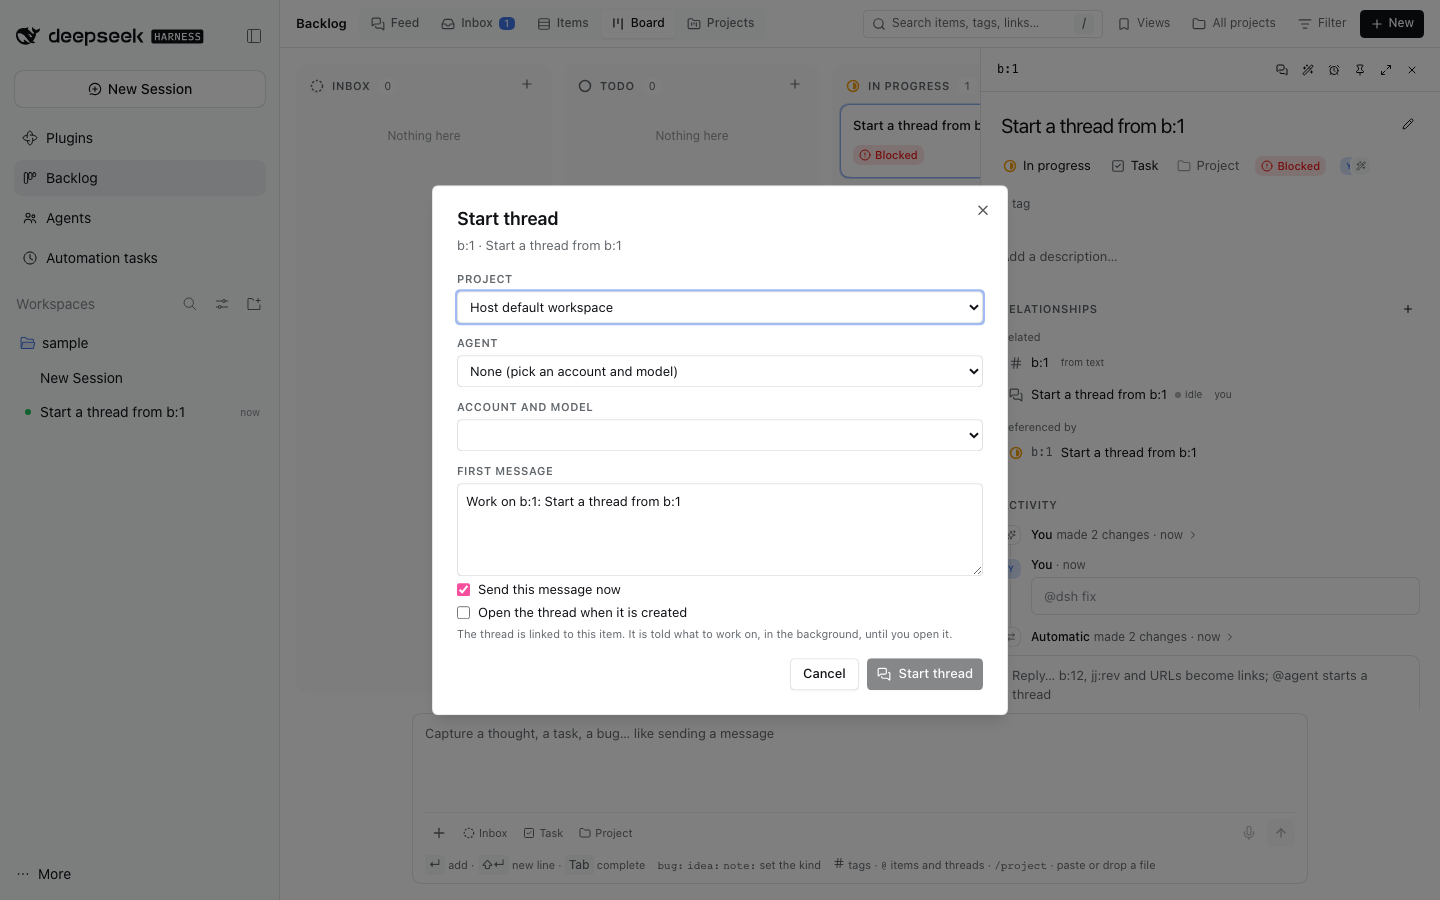
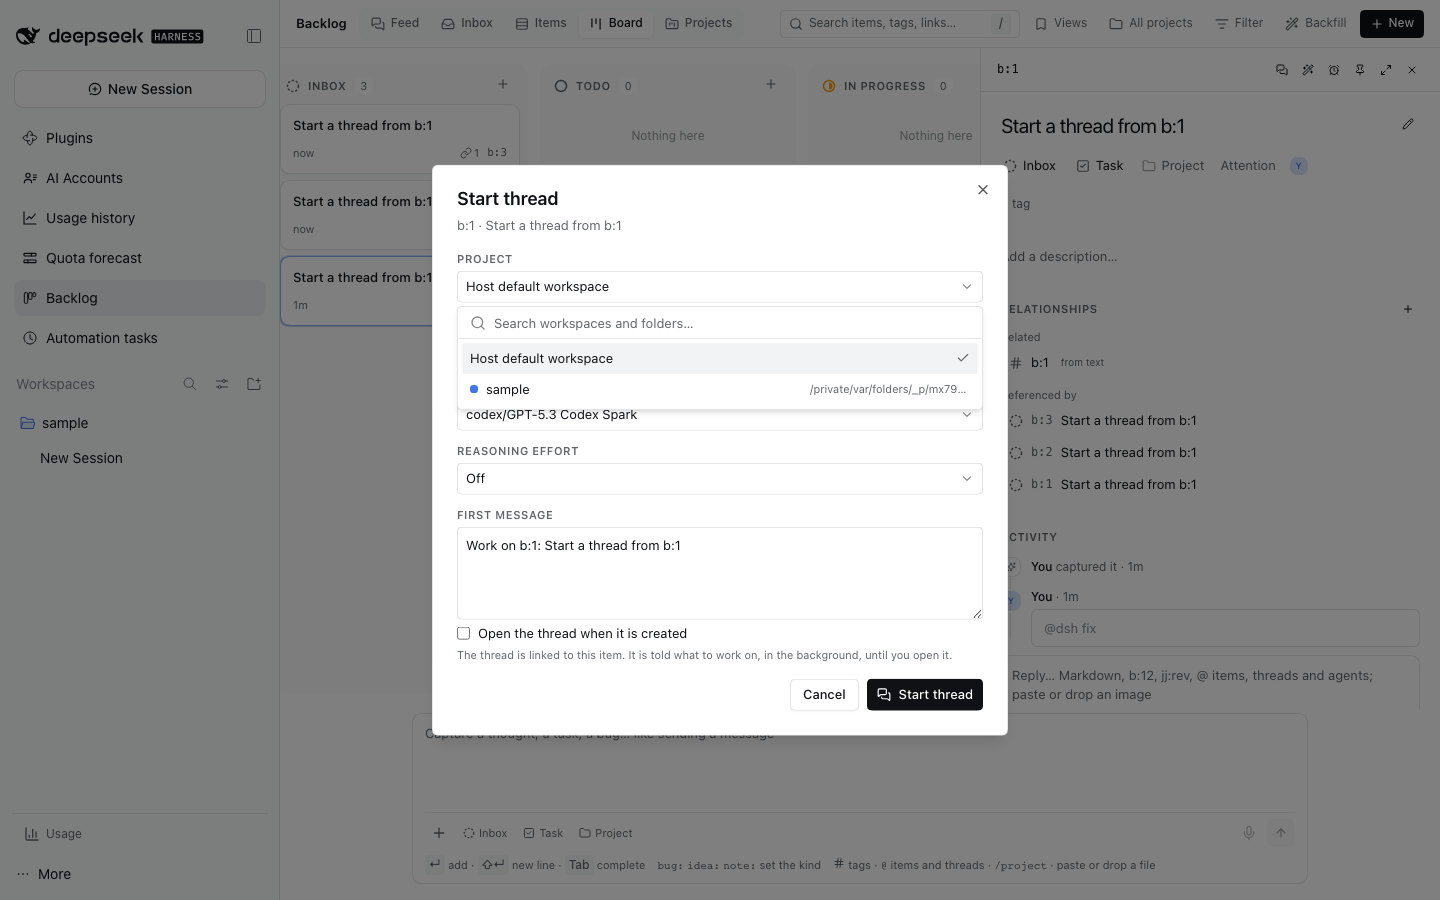
fix(backlog): restore project picker identity and send behavior
Show project color dots and home-relative paths in the thread picker. Remove the redundant send toggle and draft-only setting/API path so non-empty opening messages always start the thread.

diff --git a/plugins/@dshfiles/backlog/src/start-thread-dialog.tsx b/plugins/@dshfiles/backlog/src/start-thread-dialog.tsx
@@ -2,6 +2,7 @@ import { Button } from '@dshfiles/plugin-ui/components/ui/button'
 import { Combobox, type ComboboxOption } from '@dshfiles/plugin-ui/components/ui/combobox'
 import { Dialog, DialogContent, DialogDescription, DialogFooter, DialogHeader, DialogTitle } from '@dshfiles/plugin-ui/components/ui/dialog'
 import { MessagesSquareIcon } from '@dshfiles/plugin-ui/icons'
+import { cn } from '@dshfiles/plugin-ui/lib/utils'
 import { errorMessage, useQuery } from '@dshfiles/plugin-ui/query'
 import { useState } from 'react'
 
@@ -28,7 +29,6 @@ export const StartThreadDialog = (props: {
   readonly loadCatalog: () => Promise<StartThreadCatalog>
   /** Every enabled agent, so the thread can start as one with its preset, route and instructions. */
   readonly listAgents: () => Promise<readonly StartThreadAgentChoice[]>
-  readonly sendByDefault: boolean
   readonly openByDefault: boolean
   readonly start: (request: StartThreadRequest) => void
   readonly close: () => void
@@ -42,7 +42,6 @@ export const StartThreadDialog = (props: {
   const [mode, setMode] = useState<'together' | 'per-item'>('together')
   const [message, setMessage] = useState(() => StartThreadForm.message(props.items))
   const [instructions, setInstructions] = useState('')
-  const [send, setSend] = useState(props.sendByDefault)
   const [open, setOpen] = useState(props.openByDefault)
   const catalogQuery = useQuery({ queryKey: ['dshfiles-backlog', 'start-thread', 'catalog'], queryFn: props.loadCatalog, staleTime: 30_000 })
   const agentsQuery = useQuery({ queryKey: ['dshfiles-backlog', 'start-thread', 'agents'], queryFn: props.listAgents, staleTime: 30_000 })
@@ -53,9 +52,11 @@ export const StartThreadDialog = (props: {
   const selected = rows.find(row => row.key === selectedKey)
   const effortValue = effort ?? (selected === undefined ? undefined : StartThreadForm.defaultEffort(selected))
   const target = targets.find(option => option.value === targetValue)?.target ?? { kind: 'default' }
+  const projectIndex = (projectId: string): number => props.projects.findIndex(project => project.id === projectId)
   const projectOptions: readonly ComboboxOption[] = targets.map(option => {
     const optionTarget = option.target
-    const description = optionTarget.kind === 'project' ? props.projects.find(project => project.id === optionTarget.projectId)?.path : undefined
+    const project = optionTarget.kind === 'project' ? props.projects.find(candidate => candidate.id === optionTarget.projectId) : undefined
+    const description = project === undefined ? undefined : StartThreadForm.projectPath(project.path)
     return description === undefined ? { value: option.value, label: option.label } : { value: option.value, label: option.label, description }
   })
   const agentOptions: readonly ComboboxOption[] = [
@@ -96,7 +97,7 @@ export const StartThreadDialog = (props: {
     if (picked === null) return
     props.close()
     const startTarget = mode === 'per-item' && !targetWasChosen ? { kind: 'default' as const } : target
-    props.start({ items: props.items, mode, target: startTarget, ...picked, message: mode === 'per-item' ? instructions : picked.message, send, open })
+    props.start({ items: props.items, mode, target: startTarget, ...picked, message: mode === 'per-item' ? instructions : picked.message, open })
   }
 
   return (
@@ -135,6 +136,20 @@ export const StartThreadDialog = (props: {
                 setTargetValue(value)
               }}
               options={projectOptions}
+              renderOption={option => {
+                const project = props.projects.find(candidate => `project:${candidate.id}` === option.value)
+                return (
+                  <>
+                    {project === undefined ? null : (
+                      <span aria-hidden className={cn('dshx:size-2 dshx:shrink-0 dshx:rounded-full', StartThreadForm.projectTone(projectIndex(project.id)))} />
+                    )}
+                    <span className="dshx:min-w-0 dshx:flex-1 dshx:truncate">{option.label}</span>
+                    {option.description === undefined ? null : (
+                      <span className="dshx:max-w-40 dshx:truncate dshx:text-[11px] dshx:text-muted-foreground">{option.description}</span>
+                    )}
+                  </>
+                )
+              }}
               searchAbove={0}
               searchPlaceholder="Search workspaces and folders…"
               value={targetValue}
@@ -209,15 +224,6 @@ export const StartThreadDialog = (props: {
               className="dshx:w-full dshx:resize-y dshx:rounded-md dshx:border dshx:border-input dshx:bg-background dshx:p-2 dshx:text-[13px] dshx:text-foreground dshx:outline-none dshx:focus-visible:ring-2 dshx:focus-visible:ring-ring/50"
             />
             <label className="dshx:flex dshx:items-center dshx:gap-2 dshx:text-[13px]">
-              <input
-                type="checkbox"
-                checked={send}
-                onChange={event => setSend(event.currentTarget.checked)}
-                disabled={mode === 'together' && message.trim() === ''}
-              />
-              Send this message now
-            </label>
-            <label className="dshx:flex dshx:items-center dshx:gap-2 dshx:text-[13px]">
               <input type="checkbox" aria-label="Open the thread when it is created" checked={open} onChange={event => setOpen(event.currentTarget.checked)} />
               Open the thread when it is created
             </label>
@@ -228,14 +234,10 @@ export const StartThreadDialog = (props: {
                   ? `The thread is linked to all ${String(props.items.length)} items. `
                   : 'The thread is linked to this item. '}
               {mode === 'per-item' ? (
-                send ? (
-                  'Each thread starts with a message.'
-                ) : (
-                  'Each thread keeps its message as an editable draft.'
-                )
+                'Each thread starts with a message.'
               ) : (
                 <>
-                  {message.trim() === '' ? 'It is created empty' : send ? 'It is told what to work on' : 'It opens with the message as an editable draft'}
+                  {message.trim() === '' ? 'It is created empty' : 'It is told what to work on'}
                   {open ? ' and opens when it is ready.' : ', in the background, until you open it.'}
                 </>
               )}

diff --git a/plugins/@dshfiles/backlog/src/client-entry.tsx b/plugins/@dshfiles/backlog/src/client-entry.tsx
@@ -1,4 +1,3 @@
-import type {} from '@deepseek-ai/dsh-api-session-controller/client'
 import type {} from '@deepseek-ai/dsh-api-workspace-controller/client'
 import type { SessionId } from '@deepseek-ai/dsh-session/types'
 import type {} from '@deepseek-ai/dsh-client-ui-layout/client'
@@ -26,16 +25,9 @@ import './client.css'
 
 const PANEL_ID = 'dshfiles-backlog-panel'
 
-declare module '@deepseek-ai/dsh-api-session-controller/client' {
-  interface SessionReferenceSourceMap {
-    /** A thread the backlog just started for one item, retained while its first message is admitted. */
-    backlogStartThread: unknown
-  }
-}
-
 export default defineClient({
   name: '@dshfiles/backlog',
-  inject: ['slots', 'layout', 'sessions', 'workspaces', 'remote', 'remote.session', 'uiWorkspace', 'conversation', 'inputTriggers'],
+  inject: ['slots', 'layout', 'sessions', 'workspaces', 'remote', 'remote.session', 'uiWorkspace', 'inputTriggers'],
   setup(ctx, decorate) {
     ctx.effect(() => installBacklogReferenceLinks(), 'backlog reference links')
     const api = createApiClient(ctx, backlogApi)
@@ -46,7 +38,7 @@ export default defineClient({
         return { ok: false, reason }
       }
       if (report) BacklogNotices.show({ text: StartThreadForm.starting(request.items), kind: 'progress', sessionId: null })
-      const start: Parameters<typeof api.safe.startThread>[0] = { ids: request.items.map(item => item.id), send: request.send }
+      const start: Parameters<typeof api.safe.startThread>[0] = { ids: request.items.map(item => item.id) }
       if (request.target.kind === 'project') start.workspaceId = request.target.projectId
       else if (request.target.kind === 'cwd') start.cwd = request.target.path
       if (request.agent !== undefined) start.agent = request.agent.handle
@@ -58,17 +50,6 @@ export default defineClient({
       if (!started.ok) return failed(started.error.message)
       // SAFETY: SessionId is a type-only brand over the Host-minted unique id returned for this request.
       const sessionId = started.value.sessionId as SessionId
-      if (!request.send && request.message !== '') {
-        const reference = ctx.sessions.retain(sessionId, { source: 'backlogStartThread' })
-        try {
-          await reference.ready
-          ctx.conversation.input.requestDraftInitialization(reference.binding, { prompt: request.message, clearPreviousDraft: true })
-        } catch (cause) {
-          console.warn(`backlog: thread ${sessionId} started without its draft: ${String(cause)}`)
-        } finally {
-          reference.release()
-        }
-      }
       if (request.open) {
         try {
           ctx.uiWorkspace.openSession(sessionId)

diff --git a/plugins/@dshfiles/backlog/src/start-thread.test.ts b/plugins/@dshfiles/backlog/src/start-thread.test.ts
@@ -1,32 +1,14 @@
 import { describe, expect, it } from 'vitest'
 
-import type { BacklogSummaryView } from './api.js'
-import { BacklogViews } from './api.js'
-import { StartThreadForm } from './start-thread.js'
+import { StartThreadForm, type StartThreadItem } from './start-thread.js'
 
-const item = (fields: Partial<BacklogSummaryView> = {}): BacklogSummaryView =>
-  BacklogViews.summary({
-    id: 103,
-    title: 'right click backlog item -> start a thread',
-    kind: 'task',
-    status: 'doing',
-    project: null,
-    tags: [],
-    links: [],
-    actors: [{ id: 'user', role: 'owner' }],
-    pinned: false,
-    freshness: 'fresh',
-    createdAt: 1,
-    lastActivityAt: 2,
-    preview: '',
-    proposal: null,
-    attention: 'none',
-    acknowledgedAt: null,
-    snoozedUntil: null,
-    activity: { count: 0, agents: 0, comments: 0, last: null },
-    match: null,
-    ...fields,
-  })
+const item = (fields: Partial<StartThreadItem> = {}): StartThreadItem => ({
+  id: 103,
+  title: 'right click backlog item -> start a thread',
+  project: null,
+  preview: '',
+  ...fields,
+})
 
 const catalog = {
   default: { provider: 'opencode-go', model: 'deepseek-v4.1-flash', reasoningEffort: 'medium' },
@@ -79,6 +61,23 @@ describe('start thread form', () => {
     expect(StartThreadForm.defaultModelKey(decoded)).toBe('opencode-go/deepseek-v4.1-flash')
     const withoutDefault = { ...decoded, defaultProvider: 'gone', defaultModel: 'gone' }
     expect(StartThreadForm.defaultModelKey(withoutDefault)).toBe('opencode-go/deepseek-v4.1-flash')
+  })
+
+  it('displays home paths in familiar form and leaves other paths unchanged', () => {
+    expect(StartThreadForm.projectPath('/Users/astahmer/dev/dshfiles')).toBe('~/dev/dshfiles')
+    expect(StartThreadForm.projectPath('/home/jev/work')).toBe('~/work')
+    expect(StartThreadForm.projectPath('/tmp/work')).toBe('/tmp/work')
+  })
+
+  it('assigns distinct repeatable colors to project rows', () => {
+    expect([0, 1, 2, 3, 4].map(StartThreadForm.projectTone)).toEqual([
+      'dshx:bg-chart-1',
+      'dshx:bg-chart-2',
+      'dshx:bg-chart-3',
+      'dshx:bg-chart-4',
+      'dshx:bg-chart-5',
+    ])
+    expect(StartThreadForm.projectTone(5)).toBe(StartThreadForm.projectTone(0))
   })
 
   it('preselects the item project, a bare folder for an unregistered path, and the Host default without one', () => {
@@ -151,7 +150,6 @@ describe('start thread form', () => {
       model: null,
       reasoningEffort: undefined,
       message: 'Keep changes focused',
-      send: true,
       open: false,
     }
     const separate = StartThreadForm.requests(request)

diff --git a/tooling/dshx/e2e/support/plugin-journeys/backlog.steps.ts b/tooling/dshx/e2e/support/plugin-journeys/backlog.steps.ts
@@ -435,8 +435,8 @@ Then('the start thread dialog offers the account model and the Host default fold
   })
 })
 
-Then('the start thread dialog sends the prefilled message by default', async ({ page }: { page: Page }) => {
-  await expect(startThreadDialog(page).getByRole('checkbox', { name: 'Send this message now' })).toBeChecked()
+Then('the start thread dialog has no send-now toggle', async ({ page }: { page: Page }) => {
+  await expect(startThreadDialog(page).getByRole('checkbox', { name: 'Send this message now' })).toHaveCount(0)
 })
 
 Then('the start thread dialog keeps the thread in the backlog by default', async ({ page }: { page: Page }) => {
@@ -448,23 +448,10 @@ When('the open-when-created box is checked', async ({ page }: { page: Page }) =>
   await startThreadDialog(page).getByRole('checkbox', { name: 'Open the thread when it is created' }).check()
 })
 
-When('the send-now box is unchecked', async ({ page }: { page: Page }) => {
-  await startThreadDialog(page).getByRole('checkbox', { name: 'Send this message now' }).uncheck()
-  await expect(startThreadDialog(page)).toContainText('editable draft')
-})
-
-When('the thread is started from the dialog with its message kept', async ({ page }: { page: Page }) => {
+When('the thread is started from the dialog with the prefilled first message', async ({ page }: { page: Page }) => {
+  await expect(startThreadDialog(page).getByLabel('First message')).toHaveValue(/^Work on b:1: /)
   await startThreadDialog(page).getByRole('button', { name: 'Start thread', exact: true }).click()
   await expect(startThreadDialog(page)).toBeHidden()
-})
-
-Then('the thread composer holds {string} as a draft', async ({ page }: { page: Page }, text: string) => {
-  await recordAssertion(page, 'backlog-start-thread-draft', async () => {
-    const composer = page.getByRole('textbox', { name: THREAD_COMPOSER, exact: true }).or(page.getByRole('textbox', { name: NEW_THREAD_COMPOSER, exact: true }))
-    // The rich composer is a contenteditable editor, so the draft is asserted as text rather than a value.
-    await expect(composer.first()).toContainText(text, { timeout: 20_000 })
-  })
-  await finishJourneyAssertions(page)
 })
 
 When('the thread is started from the dialog without a first message', async ({ page }: { page: Page }) => {

diff --git a/plugins/@dshfiles/backlog/src/start-thread.ts b/plugins/@dshfiles/backlog/src/start-thread.ts
@@ -117,8 +117,6 @@ export interface StartThreadRequest {
   readonly model: string | null
   readonly reasoningEffort: string | undefined
   readonly message: string
-  /** Send the message as the thread's first turn; false leaves it as an editable draft. */
-  readonly send: boolean
   /** Open the created thread once it exists; false leaves the panel where it is. */
   readonly open: boolean
 }
@@ -157,6 +155,16 @@ export class StartThreadForm {
     return catalog.providers.flatMap(provider => provider.models.map(model => ({ key: `${provider.id}/${model.id}`, provider, model })))
   }
 
+  static projectPath(path: string): string {
+    return path.replace(/^\/(?:Users|home)\/[^/]+(?=\/|$)/, '~')
+  }
+
+  /** Distinct project tone within the visible list, matching the project glyphs used elsewhere in DSH. */
+  static projectTone(index: number): string {
+    const tones = ['dshx:bg-chart-1', 'dshx:bg-chart-2', 'dshx:bg-chart-3', 'dshx:bg-chart-4', 'dshx:bg-chart-5'] as const
+    return tones[index % tones.length] ?? tones[0]
+  }
+
   /** One item's own project preselects; a project-registered path wins over the same path taken as a bare folder. */
   static targets(items: readonly StartThreadItem[], projects: readonly StartThreadProject[]): StartThreadTargetOption[] {
     const registered = projects.map(project => ({
@@ -168,7 +176,13 @@ export class StartThreadForm {
     const bare =
       itemPath === null || projects.some(project => project.path === itemPath)
         ? []
-        : [{ value: `cwd:${itemPath}`, label: `${itemPath} (folder, no project)`, target: { kind: 'cwd', path: itemPath } as const }]
+        : [
+            {
+              value: `cwd:${itemPath}`,
+              label: `${StartThreadForm.projectPath(itemPath)} (folder, no project)`,
+              target: { kind: 'cwd', path: itemPath } as const,
+            },
+          ]
     const fallback = projects.length === 0 ? 'No workspace' : 'Host default workspace'
     return [...bare, { value: 'default', label: fallback, target: { kind: 'default' } as const }, ...registered]
   }

diff --git a/plugins/@dshfiles/backlog/src/host.ts b/plugins/@dshfiles/backlog/src/host.ts
@@ -538,7 +538,6 @@ const startThreadForItems = async (
     readonly model?: string | undefined
     readonly reasoningEffort?: string | undefined
     readonly message?: string | undefined
-    readonly send: boolean
   },
   caller: ApiCaller,
 ): Promise<{ readonly sessionId: string; readonly linked: number[]; readonly missing: number[] }> => {
@@ -590,7 +589,7 @@ const startThreadForItems = async (
   } catch (error) {
     logFailure('Backlog thread kept its created title')(error)
   }
-  if (input.send && message !== '') {
+  if (message !== '') {
     try {
       // SAFETY: SessionRequestId is a type-only brand over a Host-minted unique id.
       const requestId = randomUUID() as SessionRequestId

diff --git a/plugins/@dshfiles/backlog/src/settings.ts b/plugins/@dshfiles/backlog/src/settings.ts
@@ -44,11 +44,6 @@ export const backlogSettings = defineSettings({
       .description(
         'Remember the project of the last capture, so the next item lands in the same project. Off starts every capture with no project unless the header filters by one.',
       ),
-    startThreadSendsFirstMessage: Schema.boolean()
-      .default(true)
-      .description(
-        'When a thread is started from an item, send its prefilled first message at once. Off opens the thread with that text as a draft you can edit before sending.',
-      ),
     startThreadOpensCreated: Schema.boolean()
       .default(false)
       .description(

diff --git a/plugins/@dshfiles/backlog/src/api.ts b/plugins/@dshfiles/backlog/src/api.ts
@@ -299,10 +299,6 @@ export const backlogApi = defineApi({
             .describe(
               "The thread's first message; the items' own headings by default. An agent's identity and instructions are prepended when `agent` is named.",
             ),
-          send: z
-            .boolean()
-            .default(true)
-            .describe('Send the message as the thread’s first turn; false creates the thread empty, for a caller that leaves a draft.'),
         })
         .strict(),
       output: z.object({ sessionId: z.string().min(1), linked: z.array(idSchema), missing: z.array(idSchema) }).strict(),

diff --git a/plugins/@dshfiles/backlog/src/backlog-panel.tsx b/plugins/@dshfiles/backlog/src/backlog-panel.tsx
@@ -707,7 +707,6 @@ export const BacklogPanel = (props: {
           projects={props.startThread.listProjects()}
           loadCatalog={props.startThread.loadCatalog}
           listAgents={props.startThread.listAgents}
-          sendByDefault={settings.value?.startThreadSendsFirstMessage ?? true}
           openByDefault={settings.value?.startThreadOpensCreated ?? false}
           start={request => {
             // Creating the thread runs on in the background; the entry reports it in a toast wherever the user went.

diff --git a/plugins/@dshfiles/backlog/src/agent-dispatch.test.ts b/plugins/@dshfiles/backlog/src/agent-dispatch.test.ts
@@ -49,7 +49,6 @@ test('an agent comment starts on the agent preset, route and instructions', () =
   })
   assert.equal(request.provider, null)
   assert.equal(request.model, null)
-  assert.equal(request.send, true)
   assert.equal(request.open, false)
   // The Host prepends the agent's identity and instructions to this text, so the request carries the task alone.
   assert.match(request.message, /^Work on b:12: Fix the flaky test/u)

diff --git a/plugins/@dshfiles/backlog/src/agent-dispatch.ts b/plugins/@dshfiles/backlog/src/agent-dispatch.ts
@@ -92,7 +92,6 @@ export class AgentComments {
       model: null,
       reasoningEffort: undefined,
       message: task === '' ? context : `${context}\n\n${task}`,
-      send: true,
       open: input.open ?? false,
     }
   }

diff --git a/plugins/@dshfiles/backlog/README.md b/plugins/@dshfiles/backlog/README.md
@@ -122,23 +122,23 @@ conversation.
 Right-click a feed entry, an Items row or a board card (or press **Start thread** in the peek header) to open
 the start-thread dialog. It prefills the item's own project when that path is a registered project, offers the
 other projects plus a bare folder for a project path the registry does not know, and lists every routable
-account/model from the Host catalog with the model's reasoning efforts. The first message is prefilled from
-the item (title plus preview) and can be cleared to open an empty draft instead.
+account/model from the Host catalog with the model's reasoning efforts. Project rows have distinct color dots and
+home paths display as `~/...`. The first message is prefilled from
+the item (title plus preview) and can be cleared to create an empty thread instead.
 
 Starting hands the request over and closes the dialog at once: the thread is created in the background, so a slow jj
 workspace never holds the panel. The banner says `Starting a thread for b:<n>…` while the workspace and the Session are
 built, then reports `Thread started for b:<n>`. The Host selects the account/model on the thread, names it after the
-item, sends the first message when one is left (Settings → `dshfiles-backlog` → _Send the prefilled first message_; off
-leaves it as an editable draft, and the dialog's _Send this message now_ box overrides the setting for one thread), and
-links the item to the thread (provenance `user`, or `agent` when an agent started it).
+item, and sends its first message when one is present. Clearing the message creates an empty thread. The item is linked
+to the thread (provenance `user`, or `agent` when an agent started it).
 
 It does not take you to the thread by default: you stay where you were, and the report carries an **Open** action.
 Settings → `dshfiles-backlog` → _Open threads started from a backlog item_ opens them instead; the dialog's own _Open the
 thread when it is created_ box overrides that setting for one thread. An `@agent` comment follows the same setting.
 
 Agents start the same thread through `backlog_start_thread` (`startThread` on the Host): the item ids, and optionally a
-project workspace or bare folder, an agent handle, an account/model, the first message and whether to send it. The panel
-and the tool share one Host verb, so a thread an agent starts is the thread the dialog starts. The tool itself does not
+project workspace or bare folder, an agent handle, an account/model, and the first message. The panel and the tool share
+one Host verb, so a thread an agent starts is the thread the dialog starts. The tool itself does not
 navigate the calling thread.
 
 A thread started from an item always runs in its own jj workspace of the chosen project, whatever the
